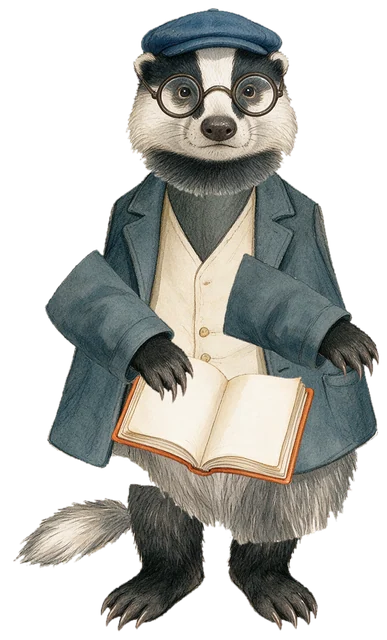
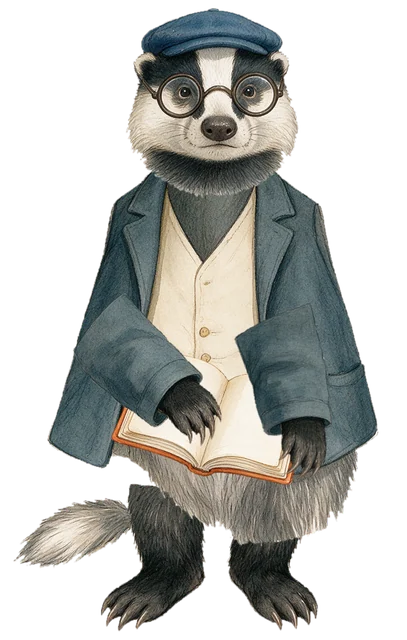
WIP F2: beam ray restored, chapter 1 opening, Wick's arms

diff --git a/client/src/book/book-view.ts b/client/src/book/book-view.ts
@@ -1,4 +1,4 @@
-import { AdditiveBlending, BoxGeometry, CircleGeometry, ConeGeometry, DoubleSide, Group, Mesh, MeshBasicMaterial, Object3D, PlaneGeometry, ShaderMaterial, Vector3, type BufferAttribute, type Texture } from '@iwsdk/core';
+import { AddEquation, AdditiveBlending, BoxGeometry, CircleGeometry, ConeGeometry, CustomBlending, DoubleSide, Group, Mesh, MeshBasicMaterial, Object3D, OneFactor, PlaneGeometry, ShaderMaterial, Vector3, ZeroFactor, type BufferAttribute, type Texture } from '@iwsdk/core';
 import { cardMaterial, surfaceMaterial } from '../paint/card-material.ts';
 import { subUv, type TexRef } from '../paint/texref.ts';
 import type { Unfold } from '../show/cues.ts';
@@ -52,8 +52,12 @@ export interface BookView {
   update(unfold: Unfold, shiver: number, seconds: number, hideFlat?: boolean): void;
   /** Lifts the ribbon off the page while the show is paused by it. */
   setRibbon(lift: number): void;
-  /** The relit lamp's beam: a faint cone in the air, turning. Azimuth in the book's frame, 0 toward you. */
-  setBeam(azimuth: number, strength: number): void;
+  /**
+   * The lit lamp's beam: a faint cone in the air, turning. Azimuth in the book's frame, 0 toward you. `reachM`
+   * (world metres) draws it on out to your walls, where your real room's depth ends it; `from` (world) sends it
+   * from another light than the set's lamp (a keeper's light held up high).
+   */
+  setBeam(azimuth: number, strength: number, opts?: { reachM?: number; from?: Vector3 | null }): void;
   /** The lighthouse lamp, in world space, for the beam on your walls. Null if the set has none. */
   lampWorld(target: Vector3): Vector3 | null;
 }
@@ -416,10 +420,17 @@ export function buildBook({ book, sets, textures, bookBase, soft, castOnStage }:
   const beamMaterial = new ShaderMaterial({
     uniforms: { uStrength: { value: 0 } },
     vertexShader: 'varying float vAlong; void main() { vAlong = 1.0 - uv.y; gl_Position = projectionMatrix * modelViewMatrix * vec4(position, 1.0); }',
-    fragmentShader: 'uniform float uStrength; varying float vAlong; void main() { float a = uStrength * 0.22 * pow(1.0 - vAlong, 1.6); gl_FragColor = vec4(vec3(1.0, 0.82, 0.5) * a, a); }',
+    fragmentShader: 'uniform float uStrength; varying float vAlong; void main() { float a = uStrength * 0.32 * pow(1.0 - vAlong, 0.9); gl_FragColor = vec4(vec3(1.0, 0.82, 0.5) * a, 0.0); }',
     transparent: true,
     depthWrite: false,
-    blending: AdditiveBlending,
+    // Light added, alpha left alone: over passthrough, more alpha would hide more of your room, so an additive
+    // shaft that also added alpha read as a dark wedge. Your room shows through it, brighter.
+    blending: CustomBlending,
+    blendEquation: AddEquation,
+    blendSrc: OneFactor,
+    blendDst: OneFactor,
+    blendSrcAlpha: ZeroFactor,
+    blendDstAlpha: OneFactor,
     side: DoubleSide,
     toneMapped: false,
   });
@@ -456,6 +467,7 @@ export function buildBook({ book, sets, textures, bookBase, soft, castOnStage }:
     if (a) beamPivot.position.set(a[0], pageY + a[1], a[2]);
   };
   placeBeam(sets[0]!.id);
+  const beamFrom = new Vector3();
 
   const stands = new Map<string, number>();
   const flatOffset = set.stack.flatOffsetM;
@@ -524,16 +536,24 @@ export function buildBook({ book, sets, textures, bookBase, soft, castOnStage }:
       extraMounts.push(mount);
       return mount;
     },
-    setBeam(azimuth, strength) {
+    setBeam(azimuth, strength, opts) {
       beamPivot.visible = strength > 0.001;
       beamPivot.rotation.y = azimuth;
       beamMaterial.uniforms.uStrength!.value = strength;
+      if (opts?.from) beamPivot.position.copy(root.worldToLocal(beamFrom.copy(opts.from)));
+      else placeBeam(stackSet);
+      // Out to the walls: the same cone, longer and wider alike, so it keeps its angle.
+      const reach = opts?.reachM ? opts.reachM / Math.max(1e-3, root.getWorldScale(beamFrom).x) : BEAM_LENGTH_M;
+      cone.scale.setScalar(reach / BEAM_LENGTH_M);
+      cone.position.z = reach / 2;
+      // A raised light's beam doesn't light the set's own lamp.
       const lamp = lamps.get(stackSet)?.lit;
-      if (lamp) lamp.visible = lampOn || strength > 0.001;
+      if (lamp) lamp.visible = lampOn || (strength > 0.001 && !opts?.from);
     },
     lampWorld(target) {
-      if (!lamps.get(stackSet)?.anchor) return null;
-      return beamPivot.getWorldPosition(target);
+      const a = lamps.get(stackSet)?.anchor;
+      if (!a) return null;
+      return root.localToWorld(target.set(a[0], pageY + a[1], a[2]));
     },
     setRibbon(lift) {
       ribbonPivot.rotation.x = -lift * 0.9;

diff --git a/client/src/show/runtime.ts b/client/src/show/runtime.ts
@@ -16,6 +16,7 @@ import { combineUnfold } from '../stage/book-control.ts';
 import { castAt, type CastPlace } from './cast-state.ts';
 import type { ShowClock } from './clock.ts';
 import { beamAt, gustAt, lightOutAt, unfoldAt, type Unfold } from './cues.ts';
+import { beamReach } from '../light/beam-reach.ts';
 import { HUNT_FADE_MS, HUNT_RETURN_MS, HUNT_REVEAL_MS, huntAt, huntPlace } from '../room-fx/hunt.ts';
 import type { RoomMap } from '../room-fx/room-map.ts';
 import { roomAt, type RoomNow } from '../room-fx/state.ts';
@@ -1054,6 +1055,7 @@ export function createShowRuntime({ manifest, spine: authoredSpine, defs, moods,
       // A keeper's light held up high (light-up) is the lamp now: its beam turns round your room from where it
       // shines, as the lighthouse's does, and fades as it comes down (light-down). From the cues and the
       // light's home, so a restored place has it too.
+      let beamFromLight = false;
       const upCue = cueOf(state, 'light-up');
       if (upCue && bookOpen) {
         const downCue = cueOf(state, 'light-down');
@@ -1063,9 +1065,17 @@ export function createShowRuntime({ manifest, spine: authoredSpine, defs, moods,
         if (held) {
           const turning = beamAt(upCue.localMs);
           const strength = turning.strength * (down === null ? 1 : clamp01(1 - down / LANTERN_BEAM_FADE_MS));
-          if (strength > 0.001) worldBeam = { lamp: views.objects.worldOf(held[0], lantern), azimuth: turning.azimuth + views.stageRoot.rotation.y, strength };
+          if (strength > 0.001) {
+            worldBeam = { lamp: views.objects.worldOf(held[0], lantern), azimuth: turning.azimuth + views.stageRoot.rotation.y, strength };
+            beamFromLight = true;
+          }
         }
       }
+      // The ray you can see leave the lamp (or the raised light) and cross the room to your wall, turning with the
+      // light it casts there. M1's cone; b323be9 dropped it outside the hunt, so only the wall light turned.
+      const walls = views.room?.places() ?? [];
+      if (worldBeam) views.book.setBeam(worldBeam.azimuth - views.stageRoot.rotation.y, worldBeam.strength, { reachM: beamReach(worldBeam.lamp, worldBeam.azimuth, walls), from: beamFromLight ? worldBeam.lamp : null });
+      else views.book.setBeam(0, 0);
       let spot: { at: Vector3; radiusM: number; strength: number } | null = null;
 
       // The treasure hunt: the beam sweeps your room and stops where the lost thing waits.
@@ -1096,7 +1106,7 @@ export function createShowRuntime({ manifest, spine: authoredSpine, defs, moods,
           }
         }
         views.book.setLamp(true);
-        views.book.setBeam(look.azimuth - views.stageRoot.rotation.y, look.strength * (bookOpen ? 1 : 0));
+        views.book.setBeam(look.azimuth - views.stageRoot.rotation.y, look.strength * (bookOpen ? 1 : 0), { reachM: beamReach(lampAt, look.azimuth, walls) });
         if (bookOpen) {
           worldBeam = { lamp: lampAt, azimuth: look.azimuth, strength: look.strength };
           spot = { at: huntTarget, radiusM: 0.45, strength: look.spot };

diff --git a/tests/chapter-2-beam.test.ts b/tests/chapter-2-beam.test.ts
@@ -3,6 +3,7 @@ import { describe, expect, test, vi } from 'vitest';
 import { Vector3, type ShaderMaterial } from '@iwsdk/core';
 import { Spine } from '../contracts/src/index.ts';
 import type { RuntimeSnapshot } from '../client/src/show/runtime.ts';
+import { BEAM_REACH_M } from '../client/src/light/beam-reach.ts';
 import { playTo, playUntil, sets, spine as chapter1, stage, type Harness } from './stage-harness.ts';
 
 // Whole-stage plays, frame by frame.
@@ -18,11 +19,25 @@ function beam(s: Harness, setId: string) {
   return { strength: u.uBeamStrength!.value as number, lamp: (u.uLamp!.value as Vector3).clone(), painted, azimuth: u.uBeamAz!.value as number };
 }
 
+/** The ray you can see (b323be9 had dropped it outside the hunt): from the lamp, along the light on your walls, out to them. */
+function ray(s: Harness, a: ReturnType<typeof beam>) {
+  const pivot = s.view.root.getObjectByName('beam')!;
+  expect(pivot.visible).toBe(true);
+  expect(pivot.getWorldPosition(new Vector3()).distanceTo(a.lamp)).toBeLessThan(1e-4);
+  const along = pivot.getWorldDirection(new Vector3());
+  expect(Math.hypot(along.x - Math.sin(a.azimuth), along.z - Math.cos(a.azimuth))).toBeLessThan(1e-3);
+  // With no room read, it runs the room dim's 3 m.
+  const cone = pivot.children[0]!;
+  const lengthM = (cone.getWorldScale(new Vector3()).x * 0.45);
+  expect(lengthM).toBeCloseTo(BEAM_REACH_M, 2);
+}
+
 function sweeps(s: Harness, setId: string) {
   const a = beam(s, setId);
   expect(a.strength).toBeGreaterThan(0.9);
   // From the lamp as drawn on this spread.
   expect(a.lamp.distanceTo(a.painted)).toBeLessThan(1e-6);
+  ray(s, a);
   // And it turns round the room.
   playTo(s, s.clock.ms + 1750);
   const b = beam(s, setId);
@@ -30,6 +45,17 @@ function sweeps(s: Harness, setId: string) {
 }
 
 describe("chapter 2's lamp sweeps your room as chapter 1's does", () => {
+  test("chapter 1's opening: the lamp's ray leaves the gallery's great lamp, as soon as the book is open", () => {
+    const s = playUntil(stage(), 'opening');
+    sweeps(playTo(s, s.clock.ms + 6000), 'the-lamp');
+  });
+
+  test("chapter 3's frosted lamp, at its opening", () => {
+    const chapter3 = Spine.parse(JSON.parse(readFileSync(new URL('../client/public/show/episode-3.json', import.meta.url), 'utf8')));
+    const s = playUntil(stage(chapter3), 'opening');
+    sweeps(playTo(s, s.clock.ms + 6000), 'the-lamp-snow');
+  });
+
   test("chapter 1's lighthouse at the gap, for comparison", () => {
     const s = playUntil(stage(), 'lighthouse');
     // The beam comes once Pip's light has lit the lamp, about 28 s into the beat.

diff --git a/tests/chapter-2-fixes.test.ts b/tests/chapter-2-fixes.test.ts
@@ -11,11 +11,11 @@ vi.setConfig({ testTimeout: 90_000 });
 const chapter2 = Spine.parse(JSON.parse(readFileSync(new URL('../client/public/show/episode-2.json', import.meta.url), 'utf8')));
 const mark = (set: string, id: string) => manifest.sets.find((s) => s.id === set)!.marks.find((m) => m.id === id)!.position as [number, number, number];
 
-/** The beam on your walls: where it comes from and how strong. And whether the book's cone shows (only the treasure hunt's, as on main). */
+/** The beam on your walls: where it comes from and how strong. And whether the lamp's ray shows, and where it starts (world). */
 function beam(s: Harness) {
   const u = (s.dim.mesh.material as ShaderMaterial).uniforms;
   const shaft = s.view.root.getObjectByName('beam')!;
-  return { strength: u.uBeamStrength!.value as number, lamp: (u.uLamp!.value as Vector3).clone(), coneShown: shaft.visible };
+  return { strength: u.uBeamStrength!.value as number, lamp: (u.uLamp!.value as Vector3).clone(), coneShown: shaft.visible, coneFrom: shaft.getWorldPosition(new Vector3()) };
 }
 const lanternAt = (s: Harness) => s.objects.worldOf('lantern', new Vector3());
 /** Chapter 2's stage as the host starts it: Pip carrying his lantern (startingObjects). */
@@ -34,7 +34,7 @@ function give(s: Harness, id: string) {
   return s;
 }
 
-describe("a keeper's light held up high is the lamp: chapter 1's beam turns round your room from it, with no new look", () => {
+describe("a keeper's light held up high is the lamp: chapter 1's beam turns round your room from it, its ray drawn from the light", () => {
   test.each([
     ['nobody helps: Moth carries it', (s: Harness) => s, 'high-moth'],
     ['the kite takes it up', (s: Harness) => give(s, 'kite'), 'high-kite'],
@@ -47,7 +47,9 @@ describe("a keeper's light held up high is the lamp: chapter 1's beam turns roun
     const up = beam(s);
     expect(up.strength).toBeGreaterThan(0.9);
     expect(up.lamp.distanceTo(lanternAt(s))).toBeLessThan(1e-6);
-    expect(up.coneShown).toBe(false);
+    // Chapter 1's ray, from the raised light out to your walls.
+    expect(up.coneShown).toBe(true);
+    expect(up.coneFrom.distanceTo(lanternAt(s))).toBeLessThan(1e-4);
 
     // Restored at this moment, the light is still up and the beam still comes from it.
     const after = stage(chapter2);

diff --git a/tests/beam-reach.test.ts b/tests/beam-reach.test.ts
@@ -1,0 +1,43 @@
+import { describe, expect, test } from 'vitest';
+import { Vector3 } from '@iwsdk/core';
+import { BEAM_REACH_M, beamReach } from '../client/src/light/beam-reach.ts';
+import type { Place } from '../client/src/room-fx/room-map.ts';
+
+const wall = (centre: [number, number, number], normal: [number, number, number], widthM = 4, label: Place['label'] = 'wall'): Place => ({
+  id: `${label}-0`,
+  label,
+  raw: label,
+  centre: new Vector3(...centre),
+  normal: new Vector3(...normal),
+  sizeM: [widthM, 2.5],
+  outline: [],
+  horizontal: false,
+  standIn: false,
+});
+
+describe("the lamp's ray stops at your wall", () => {
+  const lamp = new Vector3(0, 0.9, -0.5);
+  // A wall 2 m ahead of the lamp (toward -z), facing back into the room.
+  const ahead = wall([0, 1.2, -2.5], [0, 0, 1]);
+
+  test('runs out to the wall it points at', () => {
+    expect(beamReach(lamp, Math.PI, [ahead])).toBeCloseTo(2, 5);
+  });
+
+  test('a wall behind the lamp, or off to one side of its line, does not stop it', () => {
+    expect(beamReach(lamp, 0, [ahead])).toBe(BEAM_REACH_M);
+    const narrow = wall([3, 1.2, -2.5], [0, 0, 1], 1);
+    expect(beamReach(lamp, Math.PI, [narrow])).toBe(BEAM_REACH_M);
+  });
+
+  test('the nearest wall wins; windows and doors count, the floor does not', () => {
+    const near = wall([0, 1.2, -1.5], [0, 0, 1], 1, 'window');
+    const floor = { ...wall([0, 0, -1], [0, 1, 0]), label: 'floor' as const, horizontal: true };
+    expect(beamReach(lamp, Math.PI, [ahead, near, floor])).toBeCloseTo(1, 5);
+  });
+
+  test('no room read: the room dim\'s 3 m; a wall at the book still shows a ray leaving the lamp', () => {
+    expect(beamReach(lamp, 1, [])).toBe(BEAM_REACH_M);
+    expect(beamReach(lamp, Math.PI, [wall([0, 1.2, -0.6], [0, 0, 1])])).toBe(0.5);
+  });
+});

diff --git a/client/src/light/beam-reach.ts b/client/src/light/beam-reach.ts
@@ -1,0 +1,33 @@
+import type { Vector3 } from '@iwsdk/core';
+import type { Place } from '../room-fx/room-map.ts';
+
+/** How far the lamp's ray runs with no wall in the way: the room dim's sphere, where its light lands. */
+export const BEAM_REACH_M = 3;
+/** Never shorter than this, so a wall right by the book still shows a ray leaving the lamp. */
+const MIN_REACH_M = 0.5;
+/** A little past a wall's edge still counts, so the ray doesn't overshoot at a corner. */
+const EDGE_M = 0.3;
+
+/**
+ * Where the lamp's turning ray meets your room: the nearest real wall, window or door it crosses (level,
+ * from the lamp, along `azimuth`: 0 toward +z, as the room dim reads it), else `BEAM_REACH_M`. Over
+ * passthrough nothing hides a ray that runs on through a wall, so it stops there.
+ */
+export function beamReach(lamp: Vector3, azimuth: number, places: readonly Place[]): number {
+  const dx = Math.sin(azimuth);
+  const dz = Math.cos(azimuth);
+  let best = BEAM_REACH_M;
+  for (const p of places) {
+    if (p.horizontal || (p.label !== 'wall' && p.label !== 'window' && p.label !== 'door')) continue;
+    const facing = dx * p.normal.x + dz * p.normal.z;
+    if (Math.abs(facing) < 1e-3) continue;
+    const t = ((p.centre.x - lamp.x) * p.normal.x + (p.centre.z - lamp.z) * p.normal.z) / facing;
+    if (t <= 0 || t >= best) continue;
+    // Along the wall, level: is the crossing on it?
+    const hx = lamp.x + dx * t - p.centre.x;
+    const hz = lamp.z + dz * t - p.centre.z;
+    const along = Math.abs(hx * p.normal.z - hz * p.normal.x);
+    if (along <= p.sizeM[0] / 2 + EDGE_M) best = t;
+  }
+  return Math.max(MIN_REACH_M, best);
+}
